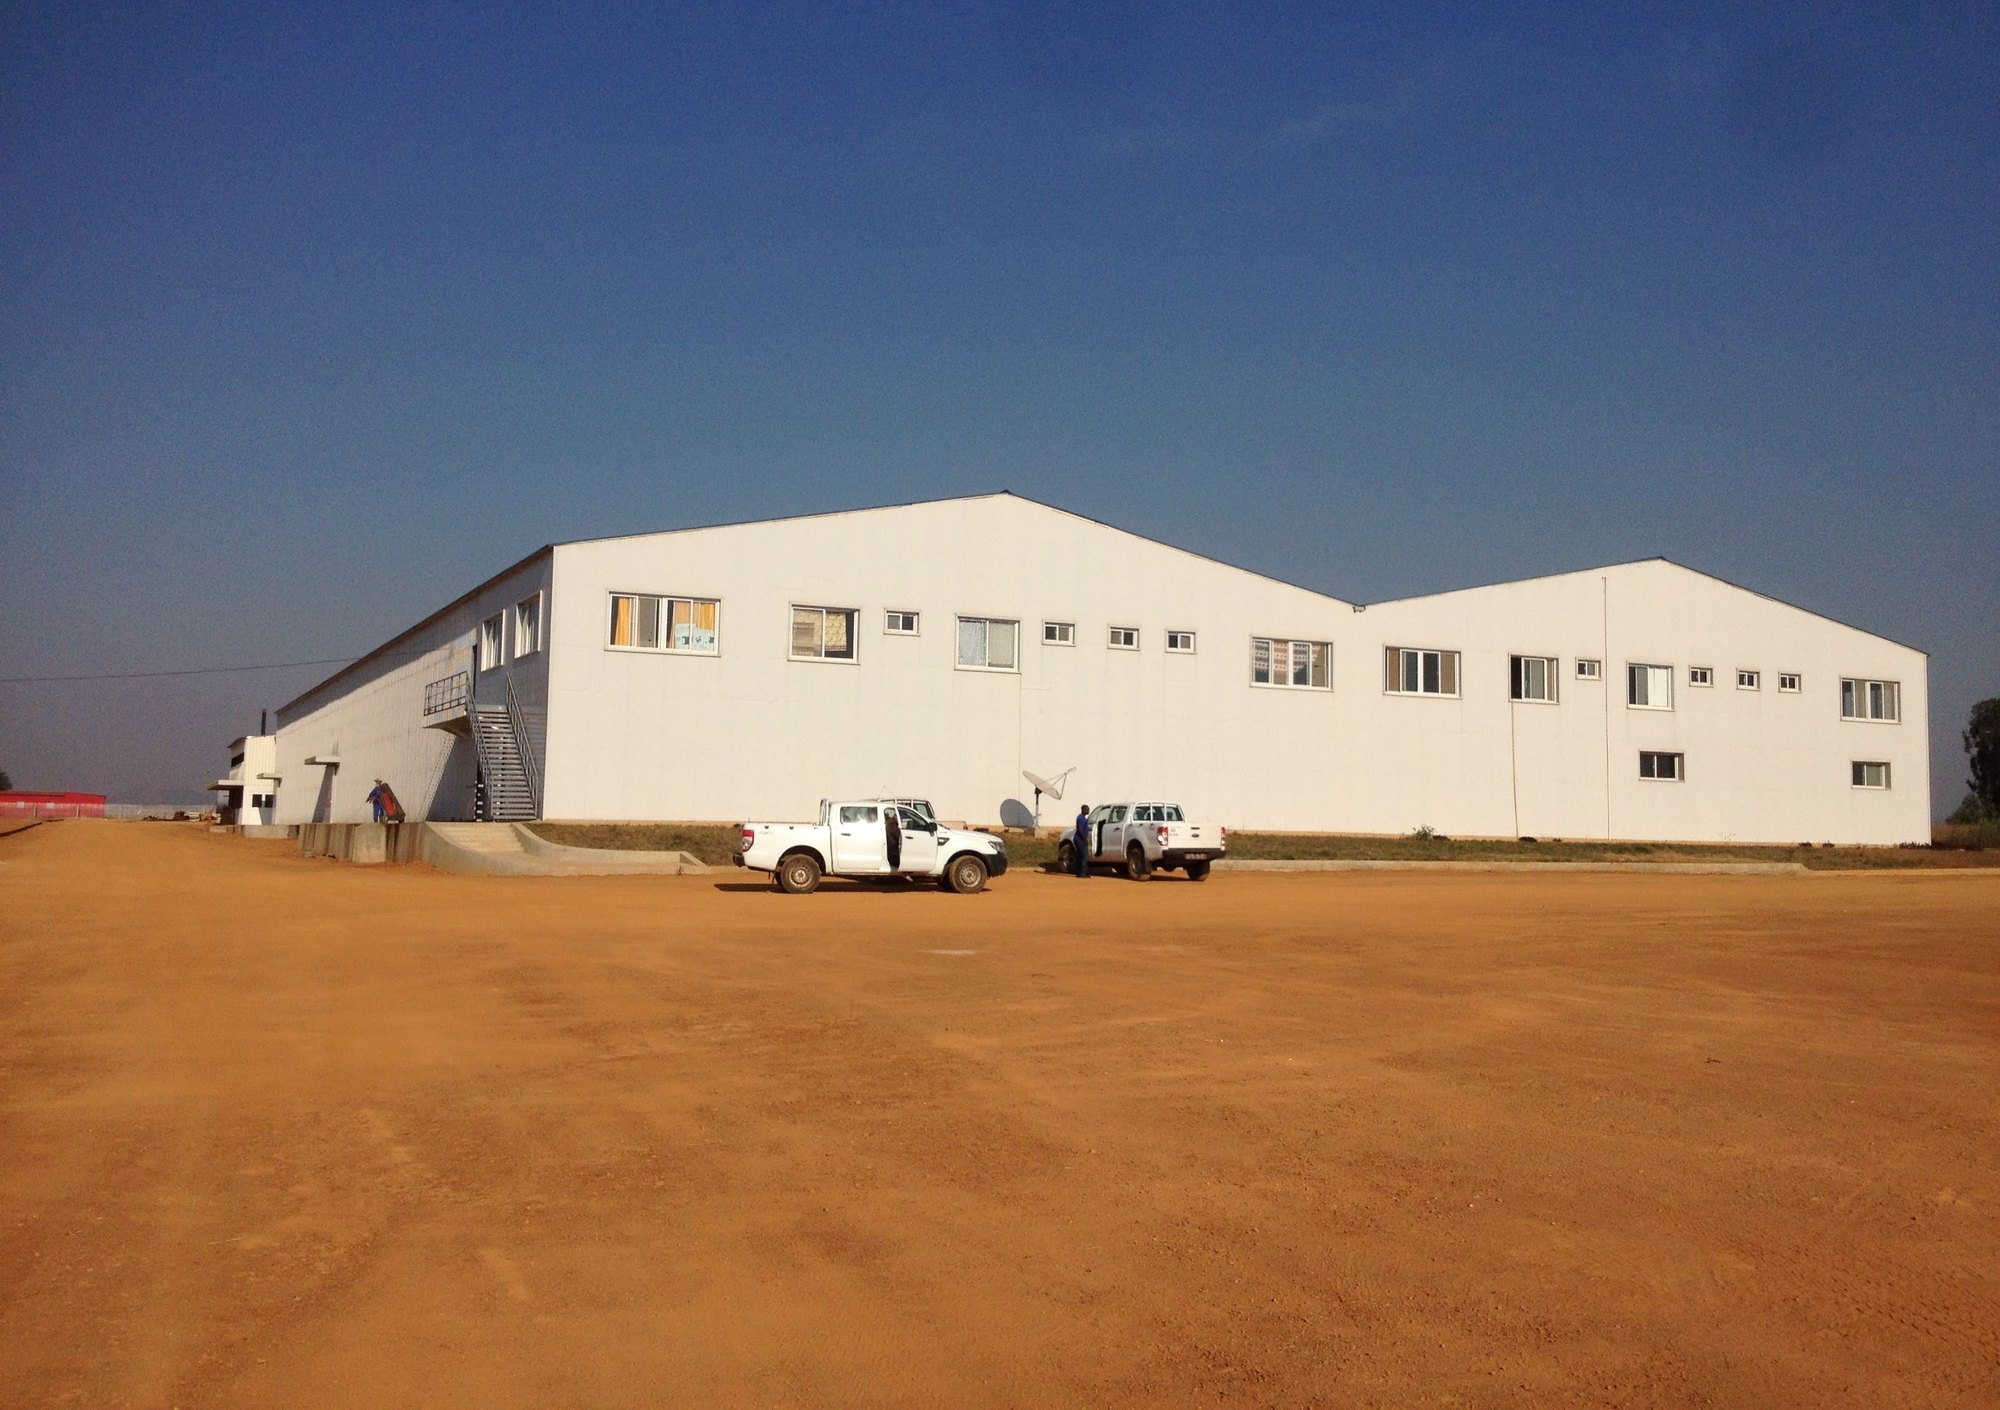
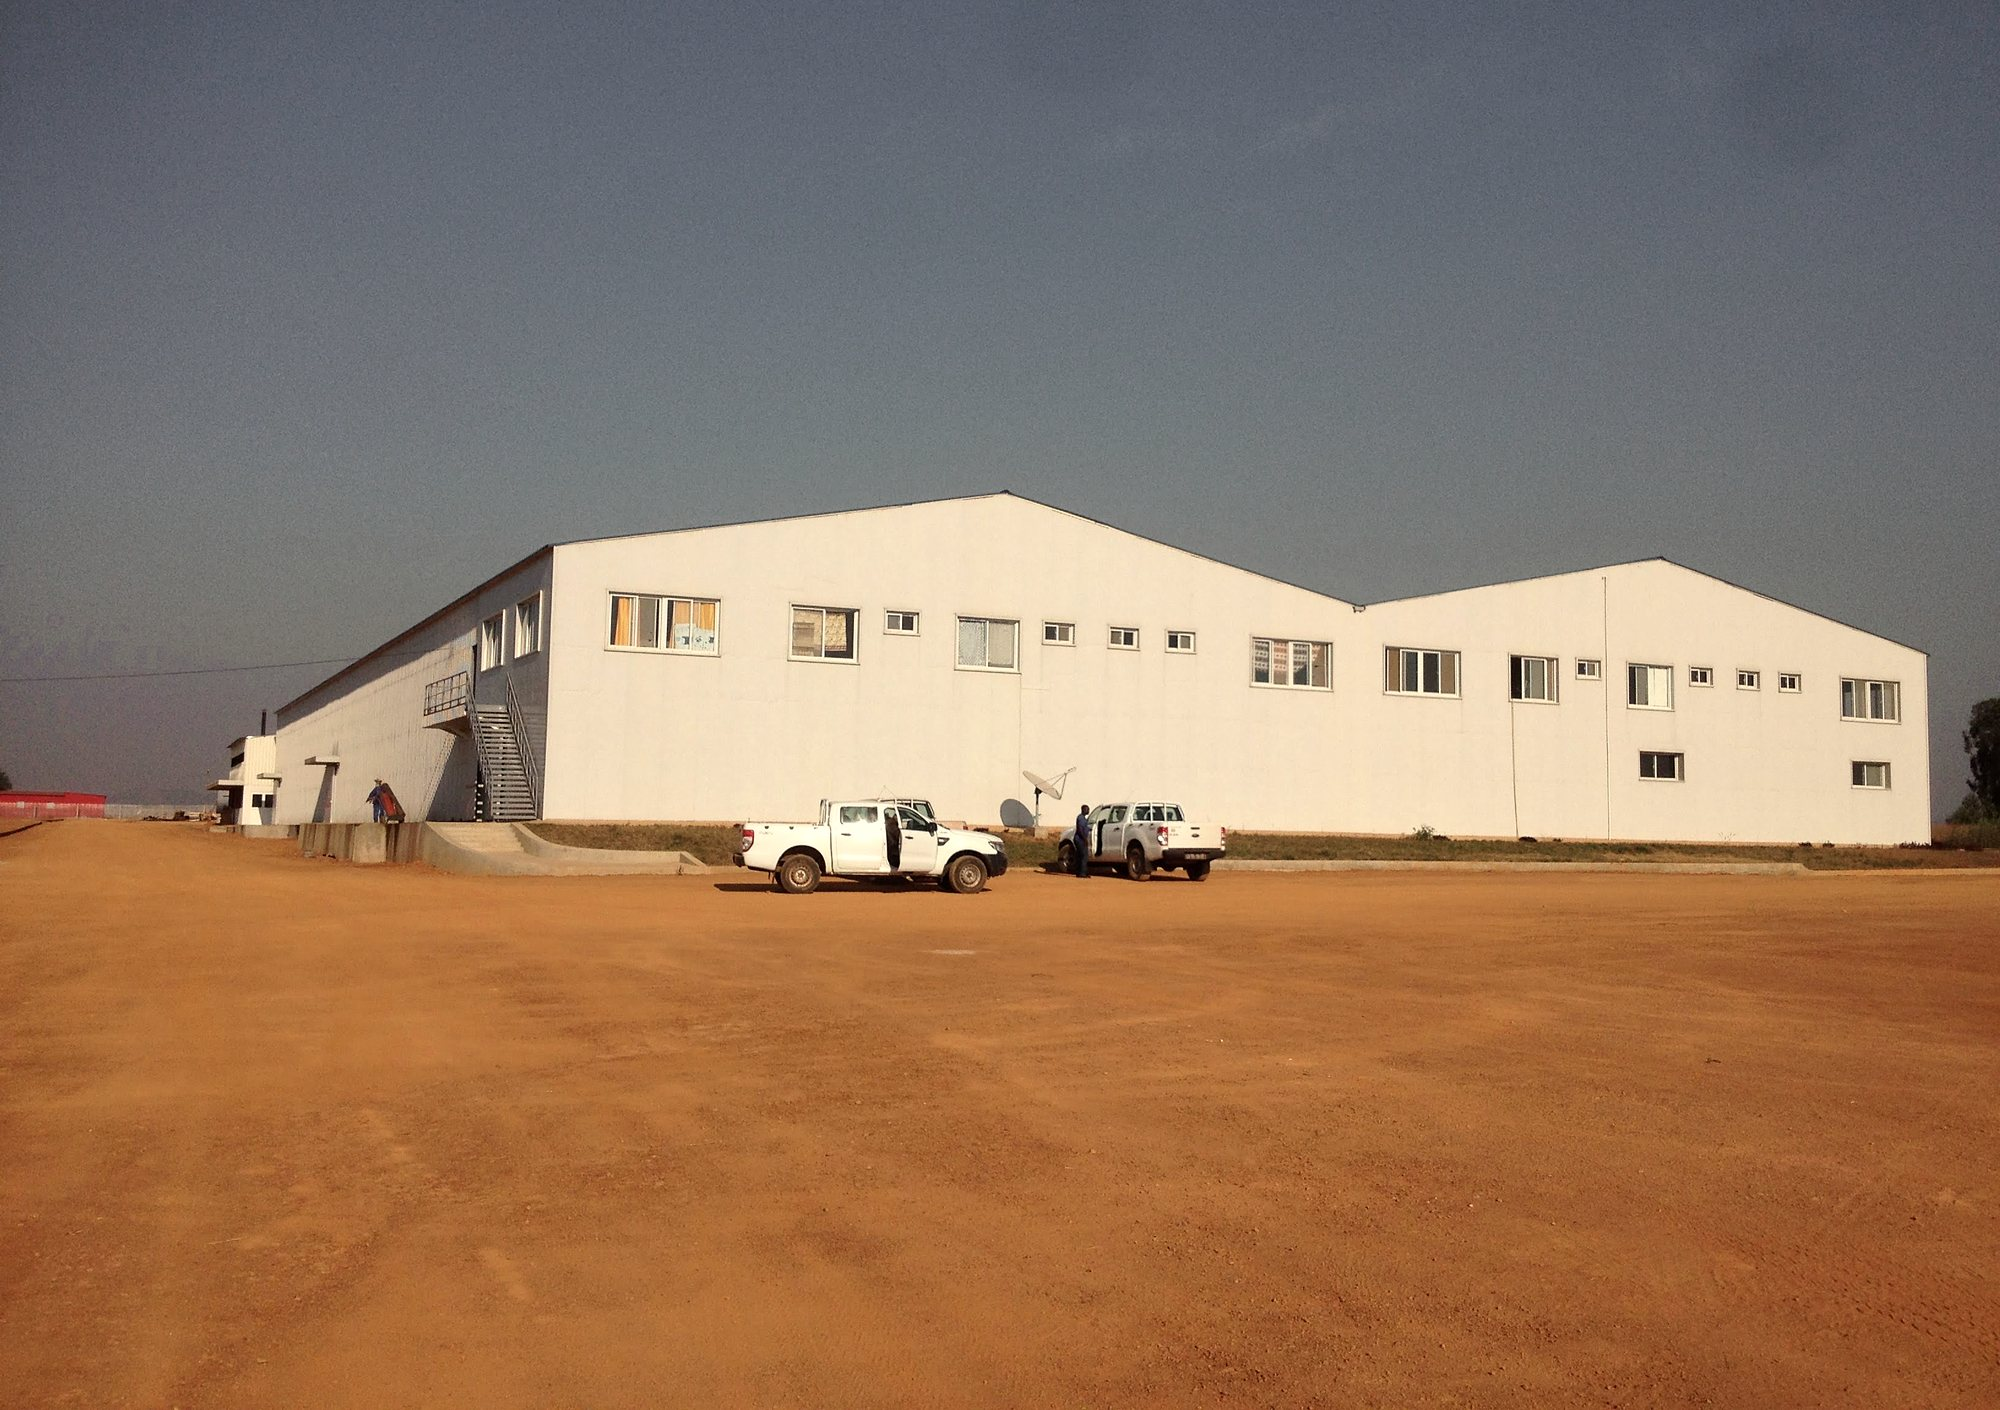
origin: plate rows (text on image), exterior back to warm-sky version

diff --git a/assets/fruttita-specimen.css b/assets/fruttita-specimen.css
@@ -273,3 +273,13 @@
   .sp-row{break-inside:avoid}
   a[href]:after{content:""}
 }
+
+/* plate rows: image with text panel on top */
+.sp-row .v.plate{grid-template-columns:1fr}
+.sp-plate{position:relative;border-radius:10px;overflow:hidden;min-height:560px;background:#3B2418}
+.sp-plate img{position:absolute;inset:0;width:100%;height:100%;object-fit:cover;object-position:center 45%}
+.sp-plate .plate-text{position:absolute;left:0;bottom:0;max-width:52ch;margin:32px;padding:26px 30px 22px;background:rgba(42,26,18,.84);color:#F6EBDA;border-radius:6px;-webkit-backdrop-filter:blur(3px);backdrop-filter:blur(3px)}
+.sp-plate .plate-text p{color:#F0E4D2;font-size:15.5px;line-height:1.6;margin:0 0 10px;max-width:none}
+.sp-plate .plate-text p:last-child{margin-bottom:0}
+.sp-plate .plate-text a{color:#F3C98B}
+@media (max-width:900px){.sp-plate{min-height:440px}.sp-plate .plate-text{margin:14px;padding:18px 18px 16px;max-width:none}}
